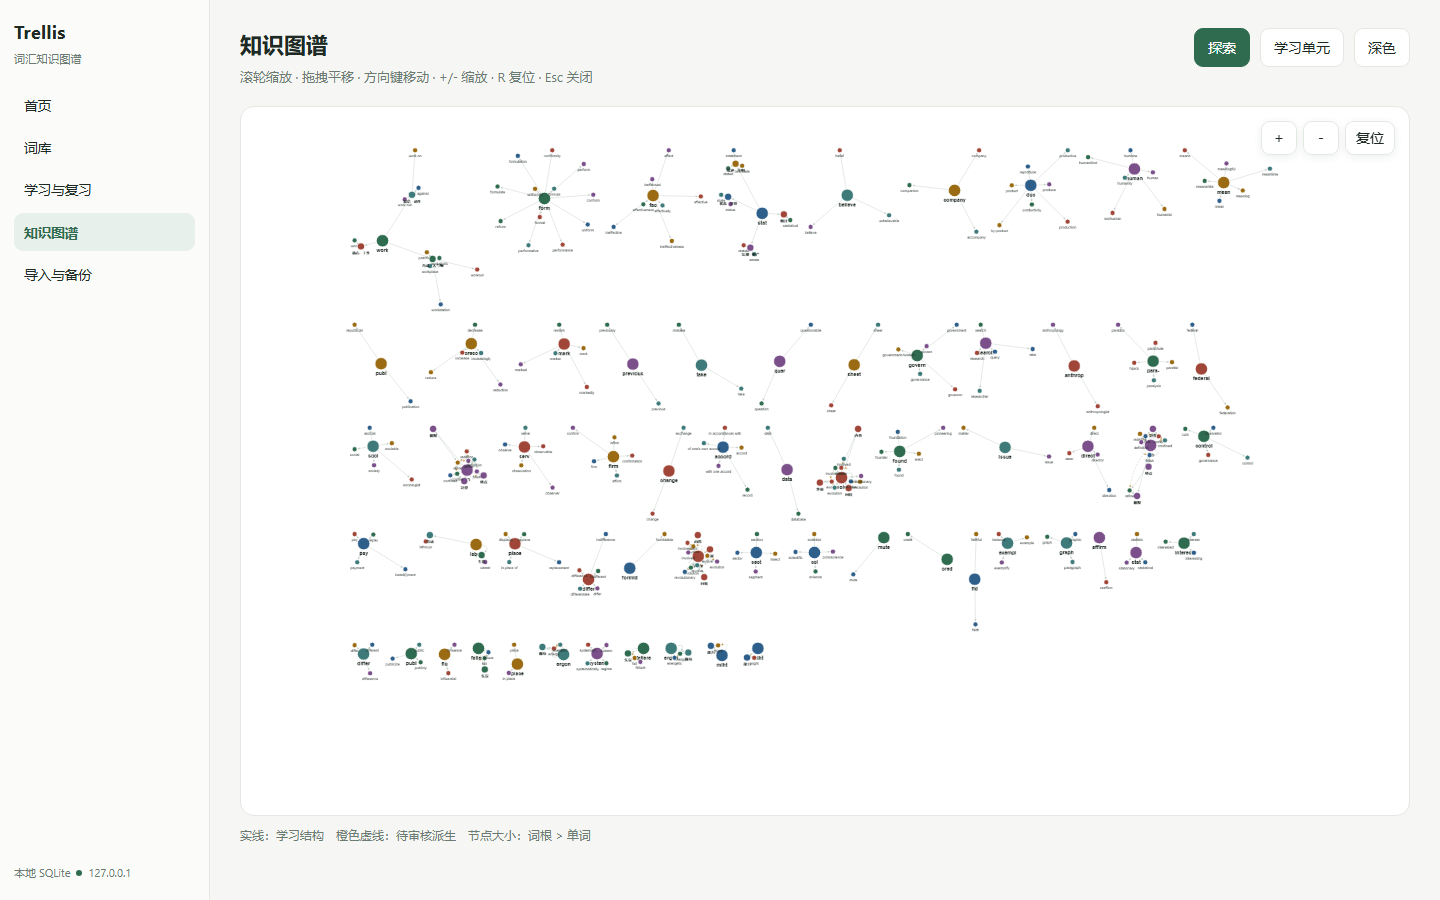
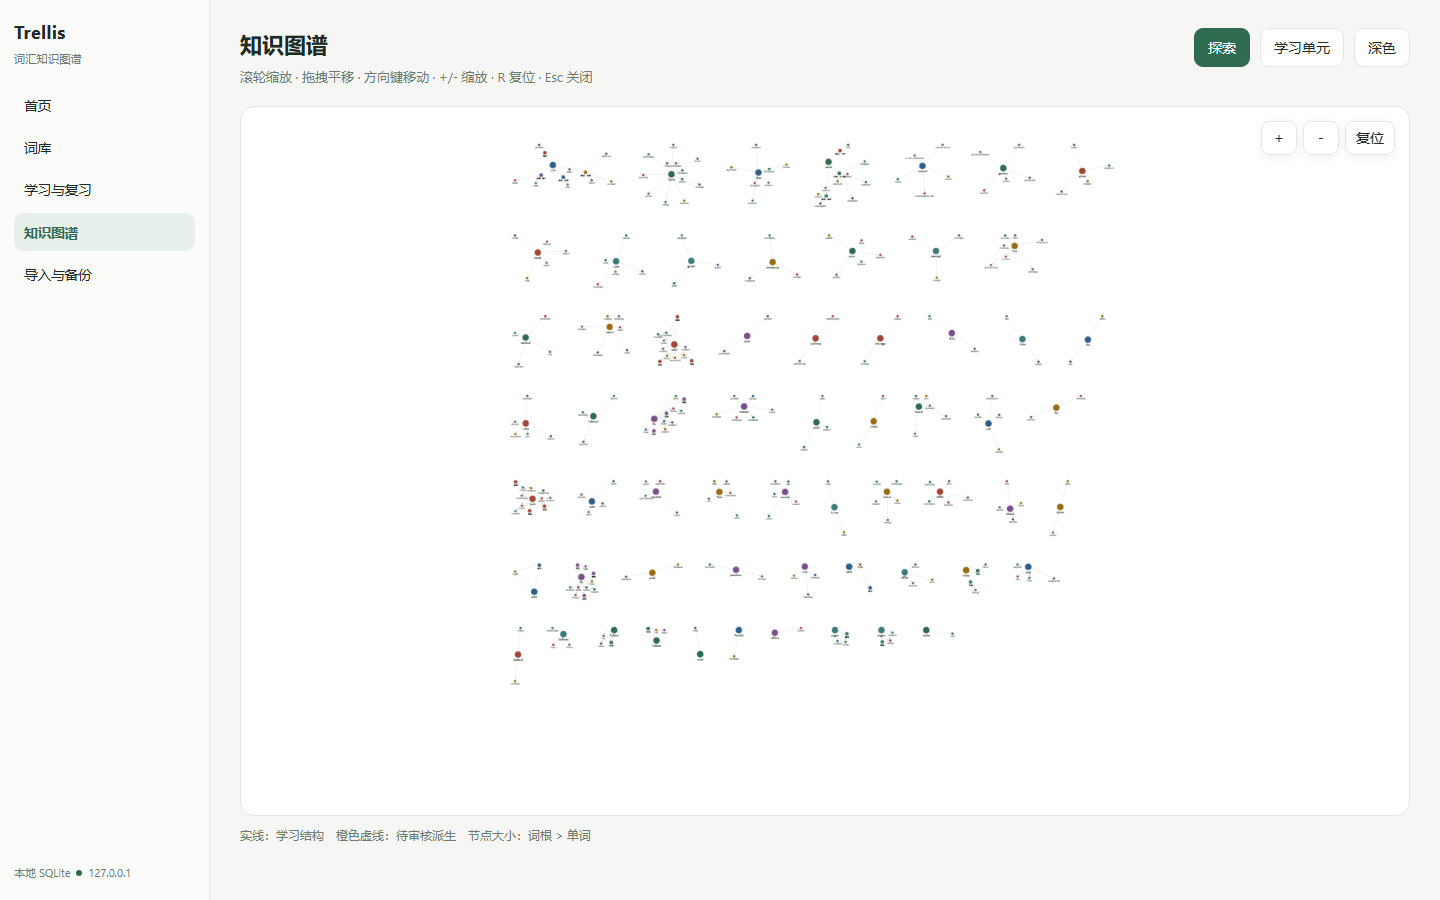
perf: faster wheel zoom (custom handler) + overlap-free layout

diff --git a/frontend/src/pages/Graph.tsx b/frontend/src/pages/Graph.tsx
@@ -1,4 +1,4 @@
-import { useCallback, useEffect, useMemo, useRef, useState } from 'react'
+import { useCallback, useEffect, useMemo, useRef, useState } from 'react'
 import { useQuery } from '@tanstack/react-query'
 import cytoscape from 'cytoscape'
 import { api } from '../services/api'
@@ -9,12 +9,46 @@ const PALETTE = ['#2f6b4f', '#2d5f8a', '#9a6b12', '#7a4f8a', '#a04638', '#3f7a7a
 const LAYOUT = {
   name: 'cose',
   animate: false,
-  padding: 50,
-  nodeRepulsion: 9000,
-  idealEdgeLength: 90,
-  gravity: 0.6,
-  numIter: 900,
+  padding: 60,
+  nodeRepulsion: 12000,
+  idealEdgeLength: 95,
+  nodeOverlap: 30,
+  gravity: 0.55,
+  numIter: 1200,
+  componentSpacing: 140,
+  randomize: false,
 } as const
+
+/** Push overlapping nodes apart after the layout settles. */
+function spreadNodes(cy: cytoscape.Core, minDistance = 34) {
+  const nodes = cy.nodes().toArray()
+  for (let iter = 0; iter < 40; iter++) {
+    let moved = false
+    for (let i = 0; i < nodes.length; i++) {
+      for (let j = i + 1; j < nodes.length; j++) {
+        const a = nodes[i]
+        const b = nodes[j]
+        const pa = a.position()
+        const pb = b.position()
+        let dx = pb.x - pa.x
+        let dy = pb.y - pa.y
+        let distance = Math.hypot(dx, dy)
+        if (distance < 0.001) {
+          dx = 0.6
+          dy = 0.6
+          distance = 0.85
+        }
+        if (distance < minDistance) {
+          const push = ((minDistance - distance) / distance) * 0.5
+          a.position({ x: pa.x - dx * push, y: pa.y - dy * push })
+          b.position({ x: pb.x + dx * push, y: pb.y + dy * push })
+          moved = true
+        }
+      }
+    }
+    if (!moved) break
+  }
+}
 
 function colorFor(node: GraphNode, index: number) {
   const meta = node.meta as { fam?: string }
@@ -78,11 +112,7 @@ export default function Graph() {
   const fit = useCallback(() => {
     const cy = cyRef.current
     if (!cy) return
-    cy.fit(undefined, 40)
-    if (cy.zoom() < 0.35) {
-      cy.zoom({ level: 0.35, renderedPosition: { x: cy.width() / 2, y: cy.height() / 2 } })
-      cy.center()
-    }
+    cy.fit(undefined, 36)
   }, [])
 
   const zoomBy = useCallback((factor: number) => {
@@ -153,6 +183,7 @@ export default function Graph() {
         boxSelectionEnabled: false,
         autounselectify: false,
         userPanningEnabled: true,
+        userZoomingEnabled: false,
       })
       cyRef.current.on('tap', 'node', (event) => {
         const node = view.data?.nodes.find((item) => String(item.id) === event.target.id())
@@ -167,8 +198,12 @@ export default function Graph() {
     const cy = cyRef.current
     cy.elements().remove()
     cy.add(elements)
-    cy.layout(LAYOUT).run()
-    window.setTimeout(() => fit(), 60)
+    const layout = cy.layout(LAYOUT)
+    layout.on('layoutstop', () => {
+      spreadNodes(cy, 40)
+      fit()
+    })
+    layout.run()
   }, [elements, view.data, fit])
 
   useEffect(() => {
@@ -179,6 +214,23 @@ export default function Graph() {
       .selector('edge').style({ 'line-color': dark ? '#33443f' : '#c3cfc6' })
       .update()
   }, [dark])
+
+  useEffect(() => {
+    const element = container.current
+    if (!element) return
+    const onWheel = (event: WheelEvent) => {
+      const cy = cyRef.current
+      if (!cy) return
+      event.preventDefault()
+      const rect = element.getBoundingClientRect()
+      const position = { x: event.clientX - rect.left, y: event.clientY - rect.top }
+      const factor = Math.exp(-event.deltaY * 0.0036)
+      const level = Math.min(3.5, Math.max(0.15, cy.zoom() * factor))
+      cy.zoom({ level, renderedPosition: position })
+    }
+    element.addEventListener('wheel', onWheel, { passive: false })
+    return () => element.removeEventListener('wheel', onWheel)
+  }, [])
 
   useEffect(() => {
     const handler = (event: KeyboardEvent) => {
